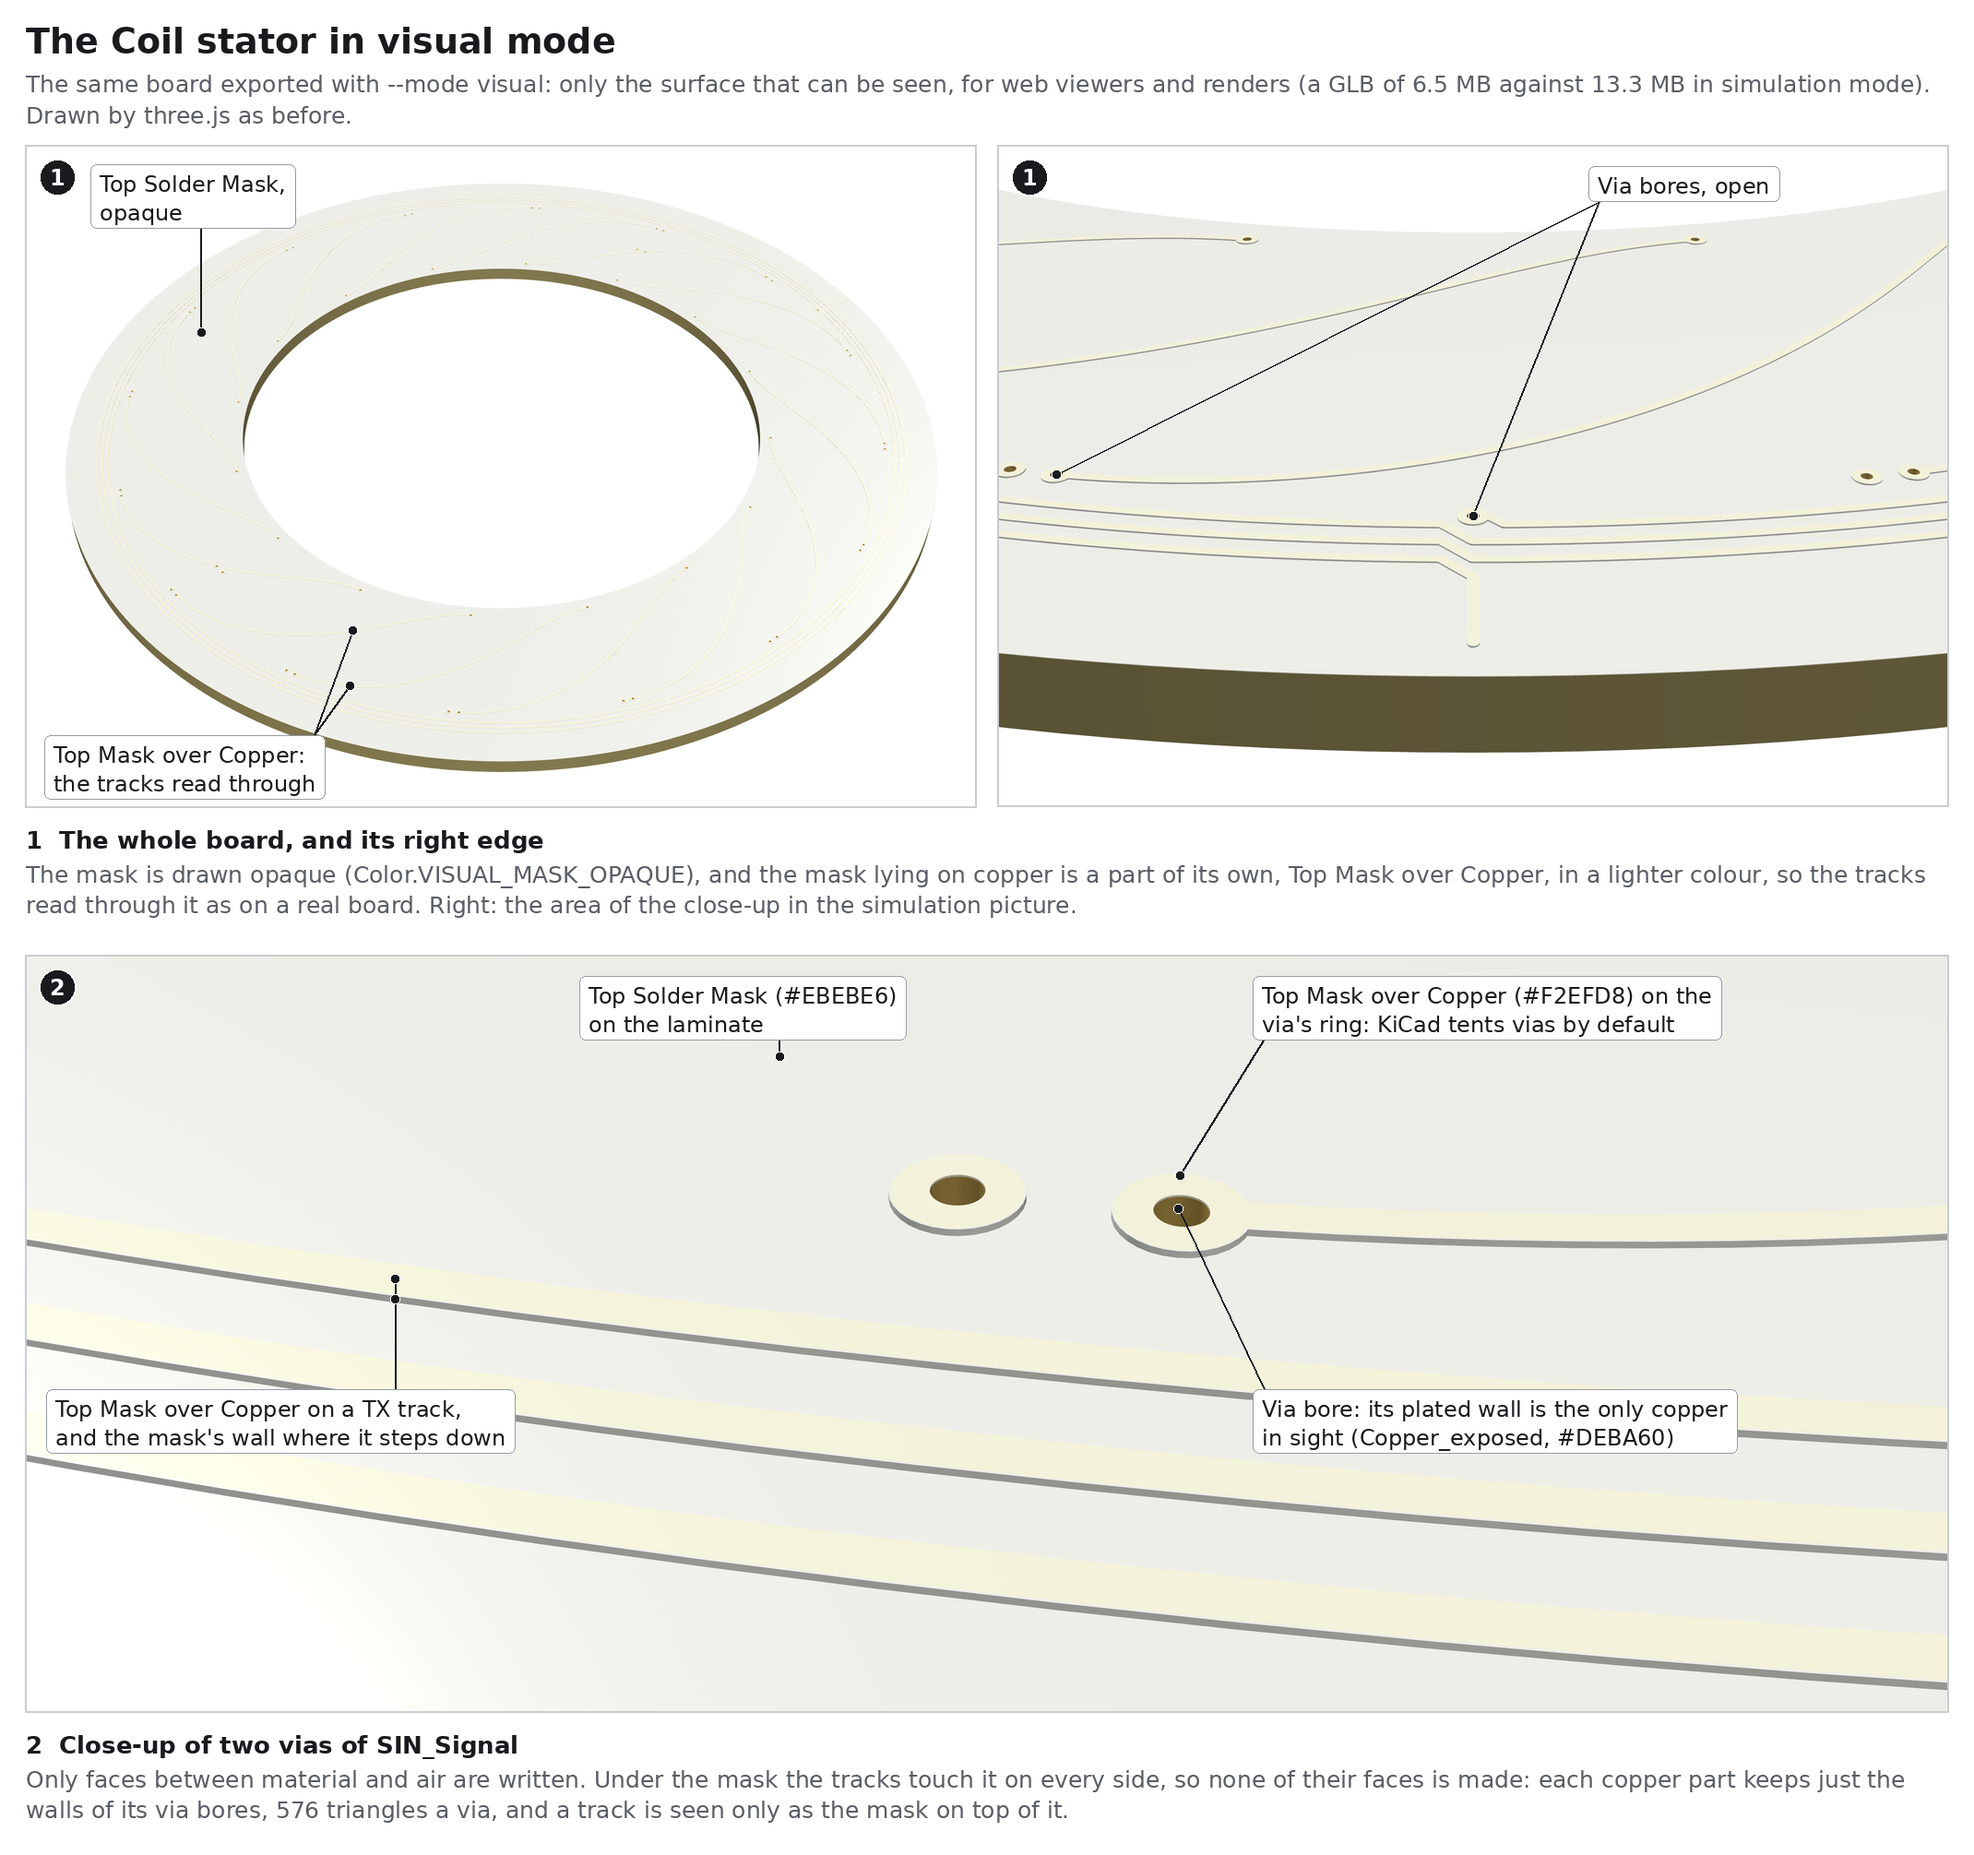
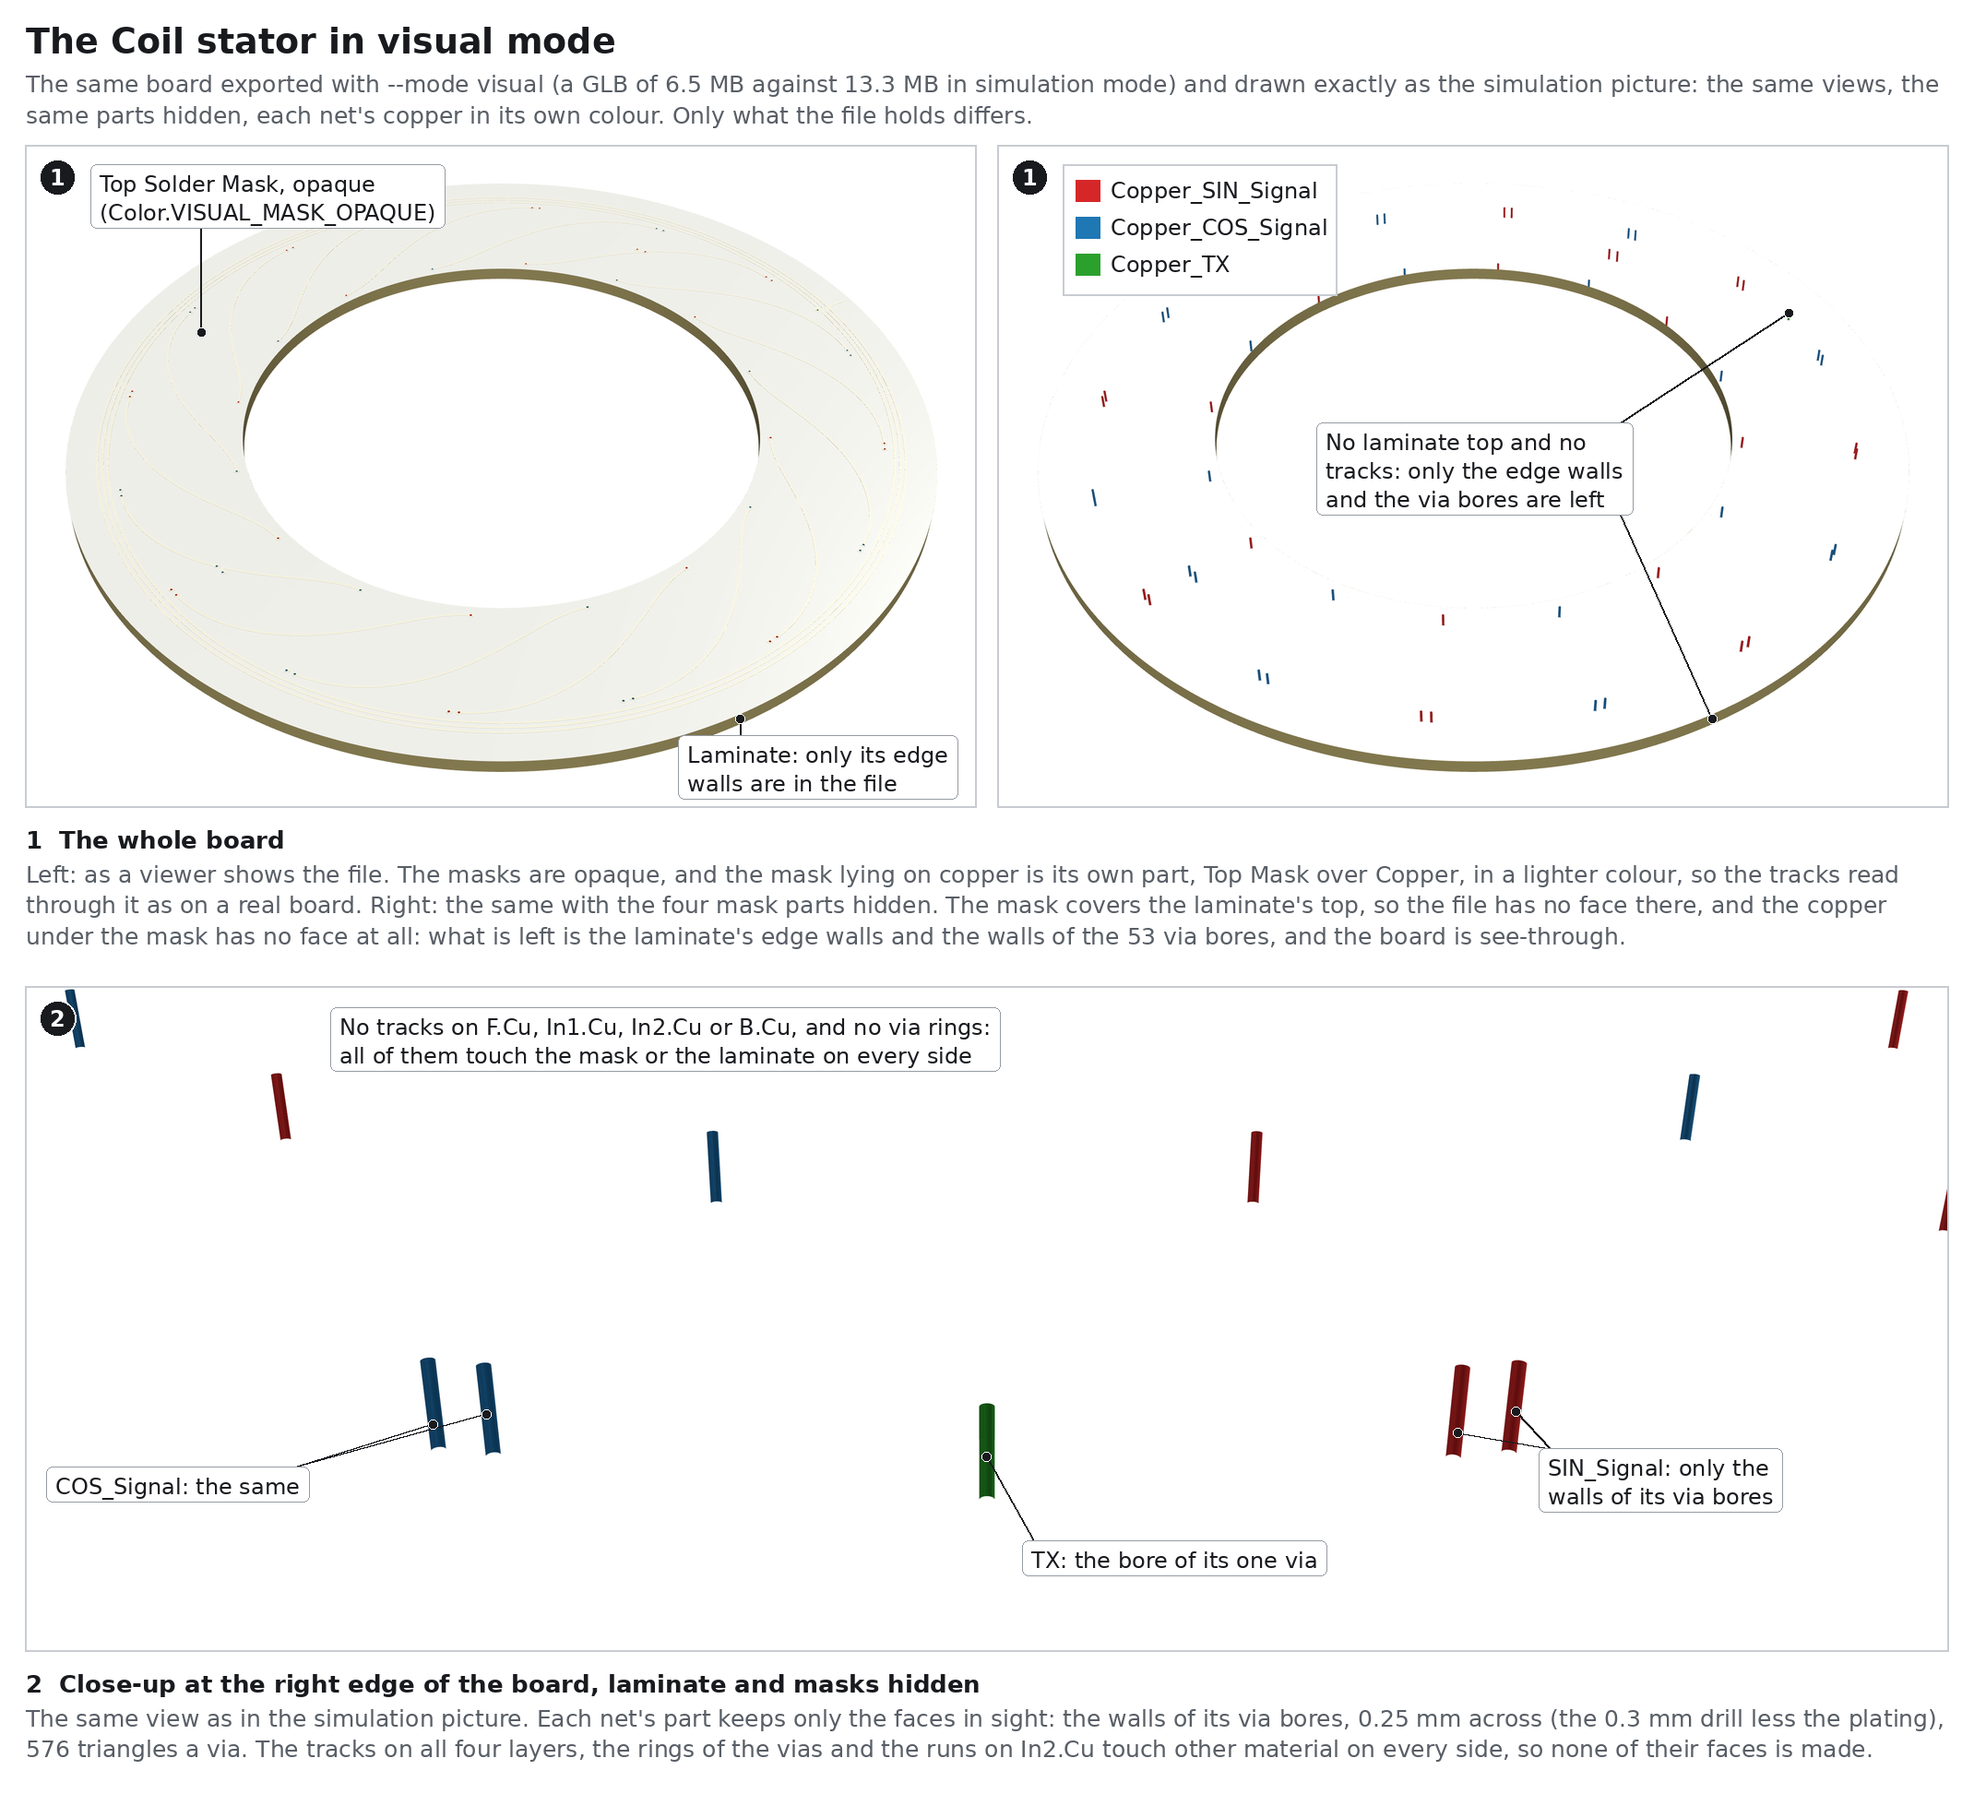
Add stack-up profiles, Stator pictures and a turning-board animation
Output Modes 8.1 and 8.2 get a true-scale side profile of the 4-layer
board 14_stackup_full in each mode: every layer a solid in simulation
mode, and in visual mode only the outside a 2-layer board would have.
Examples 5.1 gets the Stator's top, bottom and side profile in both
modes, the visual Coil picture in 5.2 is drawn exactly as the
simulation one, and Getting Started opens with an animated WebP of the
Coil stator turning in visual and simulation mode, its layers drawn
apart halfway through.

diff --git a/docs/wiki/Examples.md b/docs/wiki/Examples.md
@@ -10,6 +10,10 @@ described in [Checks, Errors And Warnings](Checks-Errors-And-Warnings.md).
 stator with one loop and three nets: `TX`, `1` and `2`. 2,414 track segments and 13 through
 vias, no footprints, no zones, no stack-up block in the file.
 
+![The Stator in simulation mode: its top, and its bottom seen from below, as a web viewer draws them, the copper showing faintly through the translucent mask; and a true-scale side profile through the TX via, where the 1.6 mm FR4 core, the copper on each face and the mask fill the cut](https://raw.githubusercontent.com/RolandThsive/KiCad-EM-Stackup-Exporter-KESE/main/docs/images/examples_3_stator_simulation.png)
+
+![The Stator in visual mode, drawn the same way: the opaque mask, the tracks reading through it as Mask over Copper and the open via bores as the only copper in the file; in the same side profile only the mask's outside, the via's bore and the board's edge are left, and neither F.Cu nor B.Cu leaves anything in the cut](https://raw.githubusercontent.com/RolandThsive/KiCad-EM-Stackup-Exporter-KESE/main/docs/images/examples_4_stator_visual.png)
+
 What this board shows:
 
 - A board **without a stack-up** in Board Setup: the laminate is the file's `(general (thickness 1.6))`,
@@ -64,7 +68,7 @@ A 4-layer inductive encoder stator, a ring from 30 to 50 mm radius, with the net
 
 ![The Coil stator in simulation mode as a web viewer draws it: the whole board with its translucent mask, the same with the masks hidden and each net's copper in its own colour, and a close-up of the right edge with only the copper shown, at its true heights on the four layers, joined by the through vias](https://raw.githubusercontent.com/RolandThsive/KiCad-EM-Stackup-Exporter-KESE/main/docs/images/examples_1_coil_simulation.png)
 
-![The Coil stator in visual mode: the whole board with its opaque mask, where the tracks read through as the mask on top of copper, the board's right edge, and a close-up of two tented vias whose open bores show the only copper in the file](https://raw.githubusercontent.com/RolandThsive/KiCad-EM-Stackup-Exporter-KESE/main/docs/images/examples_2_coil_visual.png)
+![The Coil stator in visual mode, drawn exactly as the simulation picture: the whole board with its opaque mask, the same with the masks hidden, where only the laminate's edge walls and the walls of the 53 via bores are left, and the close-up of the right edge, where each net keeps only the walls of its via bores](https://raw.githubusercontent.com/RolandThsive/KiCad-EM-Stackup-Exporter-KESE/main/docs/images/examples_2_coil_visual.png)
 
 What this board shows:
 

diff --git a/docs/wiki/Output-Modes.md b/docs/wiki/Output-Modes.md
@@ -12,6 +12,8 @@ each dielectric between two copper layers (core or prepreg), each net's copper w
 layers and vias joined into one body, via and hole plating, solder mask conformal over the copper,
 silkscreen and, if enabled, the surface finish.
 
+![Side profile of the 4-layer board featureTest/14_stackup_full in simulation mode, cut through its plated pad J1 at true scale: the three dielectrics, the mask on both faces and the pad's copper fill the cut, the pad's ring on each of the four copper layers joined by the 25 µm plated barrel into the one part Copper_GND; a table gives each layer's thickness and the part it is in](https://raw.githubusercontent.com/RolandThsive/KiCad-EM-Stackup-Exporter-KESE/main/docs/images/modes_2_simulation_side.png)
+
 - Parts touch exactly (shared vertices, exact z values) and do not overlap, apart from the known
   exception listed in
   [Working Principle](Working-Principle.md#61-the-design-choice-that-matters-most); the Verifier
@@ -67,6 +69,8 @@ sight, such as the copper of a net that runs only on inner layers and through bu
 surface left and is not in the file. A finish thinner than $`\varepsilon`$ (the 80 nm gold of
 ENIG) leaves one surface too: the nickel's and the copper's faces under it are covered by the
 layer above, so they are never made.
+
+![The same side profile in visual mode: only the faces between material and air are in the file, the mask's outside, the pad's top and bottom, the bore and the board's edge, drawn over thin grey outlines of the simulation solids; the inside of the board is empty, In1.Cu and In2.Cu leave nothing, and what is left is the outside that a 2-layer board of the same thickness would have](https://raw.githubusercontent.com/RolandThsive/KiCad-EM-Stackup-Exporter-KESE/main/docs/images/modes_3_visual_side.png)
 
 With `Run.BUILD_WITH_KERNELS = True` the skin is made the older way (`kese/s6_assemble/skin.py`):
 every prism extruded on its own and all of them joined in one exact boolean union (Manifold, in

diff --git a/docs/wiki/Getting-Started.md b/docs/wiki/Getting-Started.md
@@ -6,6 +6,8 @@ needs Python 3.12 or later: `numpy` 2.5.3 and `scipy` 1.18.1 require it. On Pyth
 the same packages without the pinned versions (`python -m pip install numpy scipy ...`) and pip
 picks the last versions built for 3.11, as `requirements.txt` explains.
 
+![The 4-layer Coil stator from Input/ turning, exported in visual mode (left) and in simulation mode (right) and drawn with the same camera. Halfway through the turn its layers are drawn apart: the simulation model has every layer as a closed solid, the copper of all four layers included, while the visual model has only the faces that can be seen, the mask, the board's edge walls and the via bores, and nothing inside](https://raw.githubusercontent.com/RolandThsive/KiCad-EM-Stackup-Exporter-KESE/main/docs/images/start_1_modes.webp)
+
 ## 3.1 Install
 
 ```bash
